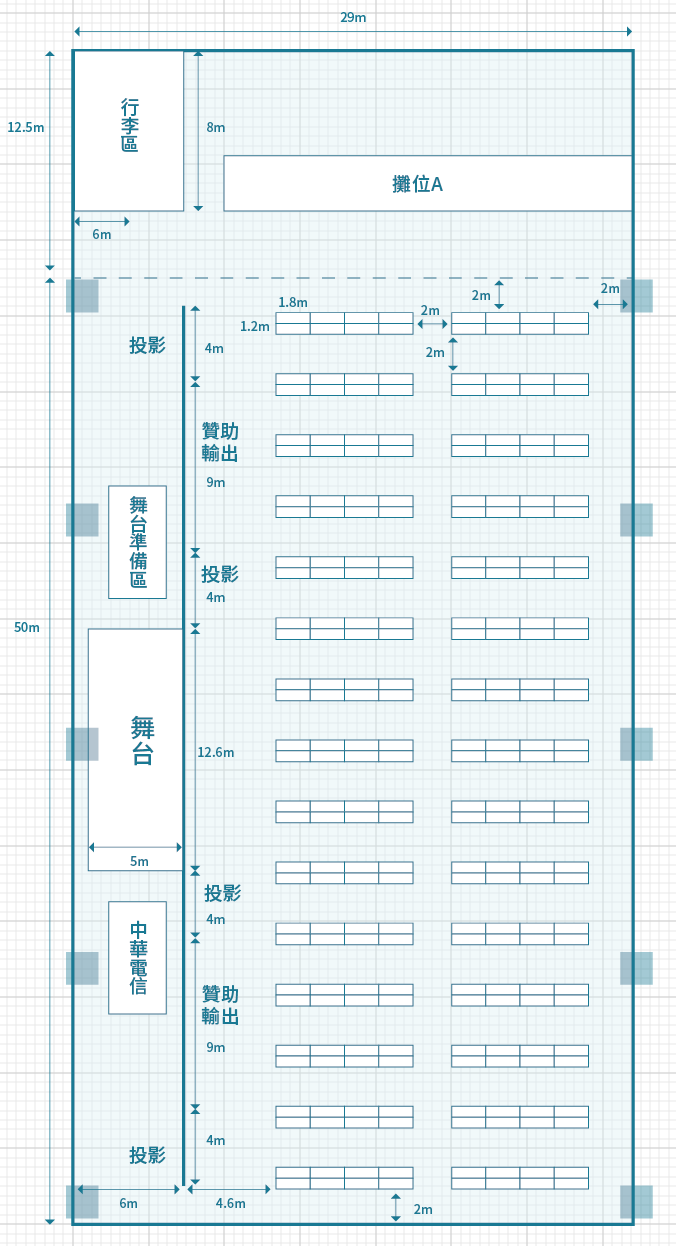
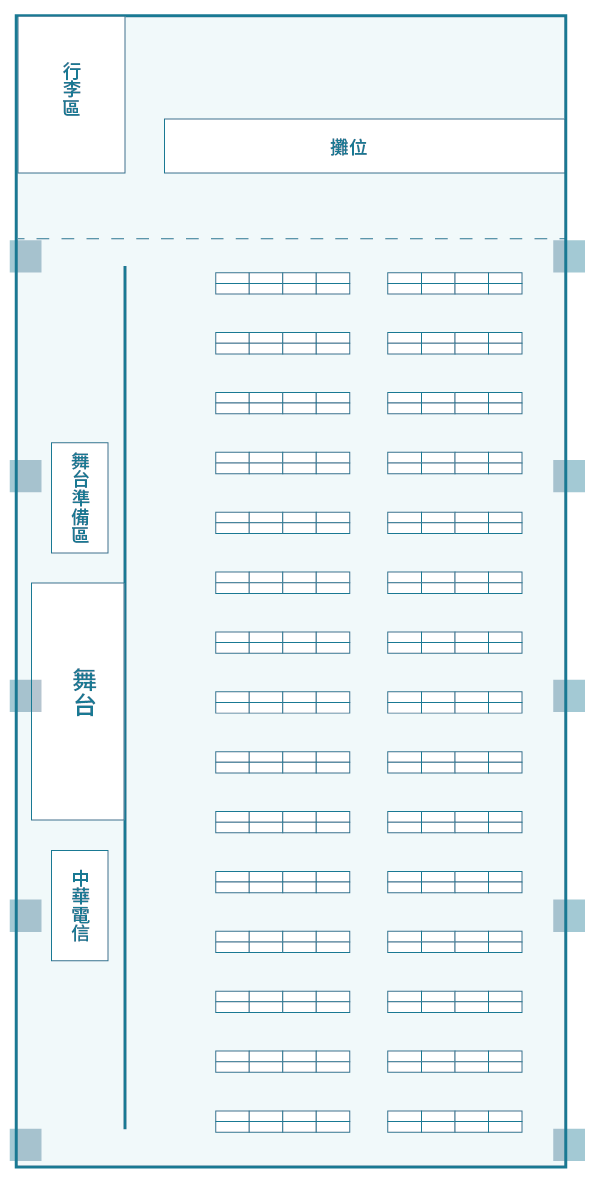
更新全地圖、hacking area檔案

Changed region(s): [[0.0, 0.0, 0.9802, 1.0]]

diff --git a/src/components/home/hackingmap/FullMapView.vue b/src/components/home/hackingmap/FullMapView.vue
@@ -5,7 +5,7 @@
     <svg ref="svg" id="svg-map" class=".svg-pan-zoom_viewport" :viewBox="'0 0 '+map.map_width+' '+map.map_height">
 
       <!-- 地圖 -->
-      <image xlink:href="../../../assets/flora_expo_park.png" :x="0" :y="0" :width="map.map_width" :height="map.map_height"/>
+      <image xlink:href="../../../assets/full_map.jpg" :x="0" :y="0" :width="map.map_width" :height="map.map_height"/>
 
     </svg>
 
@@ -67,7 +67,7 @@ export default {
       width: 100%
       height: 100%
       background-color: $map_bg_color
-      
+
     #zoomBtnContainer
       // background-color: green
       position: absolute

diff --git a/src/components/home/hackingmap/MapView.vue b/src/components/home/hackingmap/MapView.vue
@@ -5,7 +5,7 @@
     <svg ref="svg" id="svg-map" class=".svg-pan-zoom_viewport" :viewBox="'0 0 '+map.map_width+' '+map.map_height">
 
       <!-- 地圖 -->
-      <image xlink:href="../../../assets/flora_expo_park.png" :x="0" :y="0" :width="map.map_width" :height="map.map_height"/>
+      <image xlink:href="../../../assets/hacking_area_scaled.png" :x="0" :y="0" :width="map.map_width" :height="map.map_height"/>
       <!-- <image xlink:href="../../../assets/hacking_area.png" :x="0" :y="0" :width="map.map_width" :height="map.map_height"/> -->
 
       <template v-for="post in filteredPosts">
